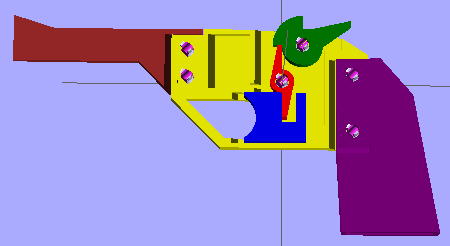
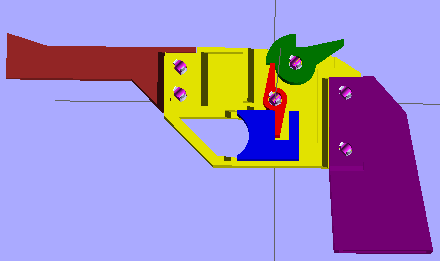
bandit mk1 page

diff --git a/bandit_mk1.html b/bandit_mk1.html
@@ -14,12 +14,58 @@ link_location: bandit_mk1
   </div>
   <div class="col-md-8">
     <p>
-I wanted to try my hand at designing a trigger group, that turned into the Bandit MK1 Rubber Band Gun.  This gun is designed for 3D printing and should be a fairly easy, albeit time consuming, to print.  It is designed to use #10 rubber bands and it shoots them quite well.
+I wanted to try designing a trigger group, that project turned into the Bandit MK1 Rubber Band Gun.  This gun is designed for 3D printing and should be a fairly easy, albeit time consuming, to print.  Every single piece is printable, so no parts to source.  It is designed to use #10 rubber bands and it shoots them quite well.
     </p>
     <p>
-The trigger group is based loosely off of the Colt 1911.
+The trigger group is based loosely off of the Colt 1911.  I call this variant the scroll trigger because the other inspiration was the logo from the game <a href="https://scrolls.com/" target="_blank">Scrolls</a>.
     </p>
   </div>
 </div>
+<div class="row" style="padding-top:5px;">
+  <div class="col-md-6">
+    <a href="/img/bandit_mk1_cross_section_cocked.png" class="thumbnail" target="_blank">
+      <img src="/img/bandit_mk1_cross_section_cocked.png" />
+    </a>
+  </div>
+  <div class="col-md-6">
+    <a href="/img/bandit_mk1_cross_section_uncocked.png" class="thumbnail" target="_blank">
+      <img src="/img/bandit_mk1_cross_section_uncocked.png" />
+    </a>
+  </div>
+</div>
+<div class="row" style="padding-top:5px;">
+  <div class="col-md-12">
+    <p>
+I learned a lot from designing and printing this gun.  It took several iterations to get it right.  That being said, it is parameterized and you might need to do some tweaking to get the tolerances right on your printer.
+    </p>
+    <p>
+In order for me to get the pins to print correctly, I needed to wipe down the kapton tape on my print bed before each print.  This does a good job of removing dust and oils from touching the bed.  Otherwise most of the revisions were to get the tolerances correct.
+    </p>
+    <p>
+Since this was designed with 3D printing in mind, you'll notice several unique characteristics.  Not only are the pins flat on the bottom, but the holes have a flat side too.  This is to stop the pins from rotating, but also a flat 45 degree side on a round hole provided less sagging and a cleaner printed hole.  
+    </p>
+    <p>
+There are also several places where I have 45 degree cuts to prevent what would otherwise be a 90 degree overhang.  Where the grip meets the bottom of the trigger group is a good example, but you'll also see it on the front inside of the trigger group housing and back of the barrel.
+    </p>
+    <p>
+The last thing worth mentioning is the hollowed out part of the trigger group housing.  It's hollowed out to save print time and material.  You'll see it has a 45 degree cut in the front like I've mentioned before, but it also has a straight cut in the back connecting it to the main trigger group hollow.  That's because the STL files I use to print describe the surface on an object.  If that cut through wasn't there, the slicer wouldn't pick up the hollow part at all and it would be printed solid, with whatever infill I had set.
+    </p>
+    <p>
+You can get the OpenSCAD code by cloning the <a href="https://github.com/pwntato/bandit_mk1" target="_blank">repo</a>.  By default it will generate the parts in design mode.  It is a long print, so I recommend doing it as two prints.  For that, find where it is calling "parts_for_design();" and comment that out by putting // in front of it.  Then uncomment "platter_for_printing_trigger_group();" or "platter_for_printing_grip_and_barrel();" to generate each set of parts for printing.  You will need to print both sets to have a working rubber band gun.
+    </p>
+    <p>
+Keep an eye out for the Bandit MK2 that I am currently working on.  It will be more configurable and faster to print.  To get the latest news about my projects <a href="https://twitter.com/j5project" target="_blank">follow me on twitter</a>.
+    </p>
+  </div>
+</div>
+
+
+
+
+
+
+
+
+
 
 
